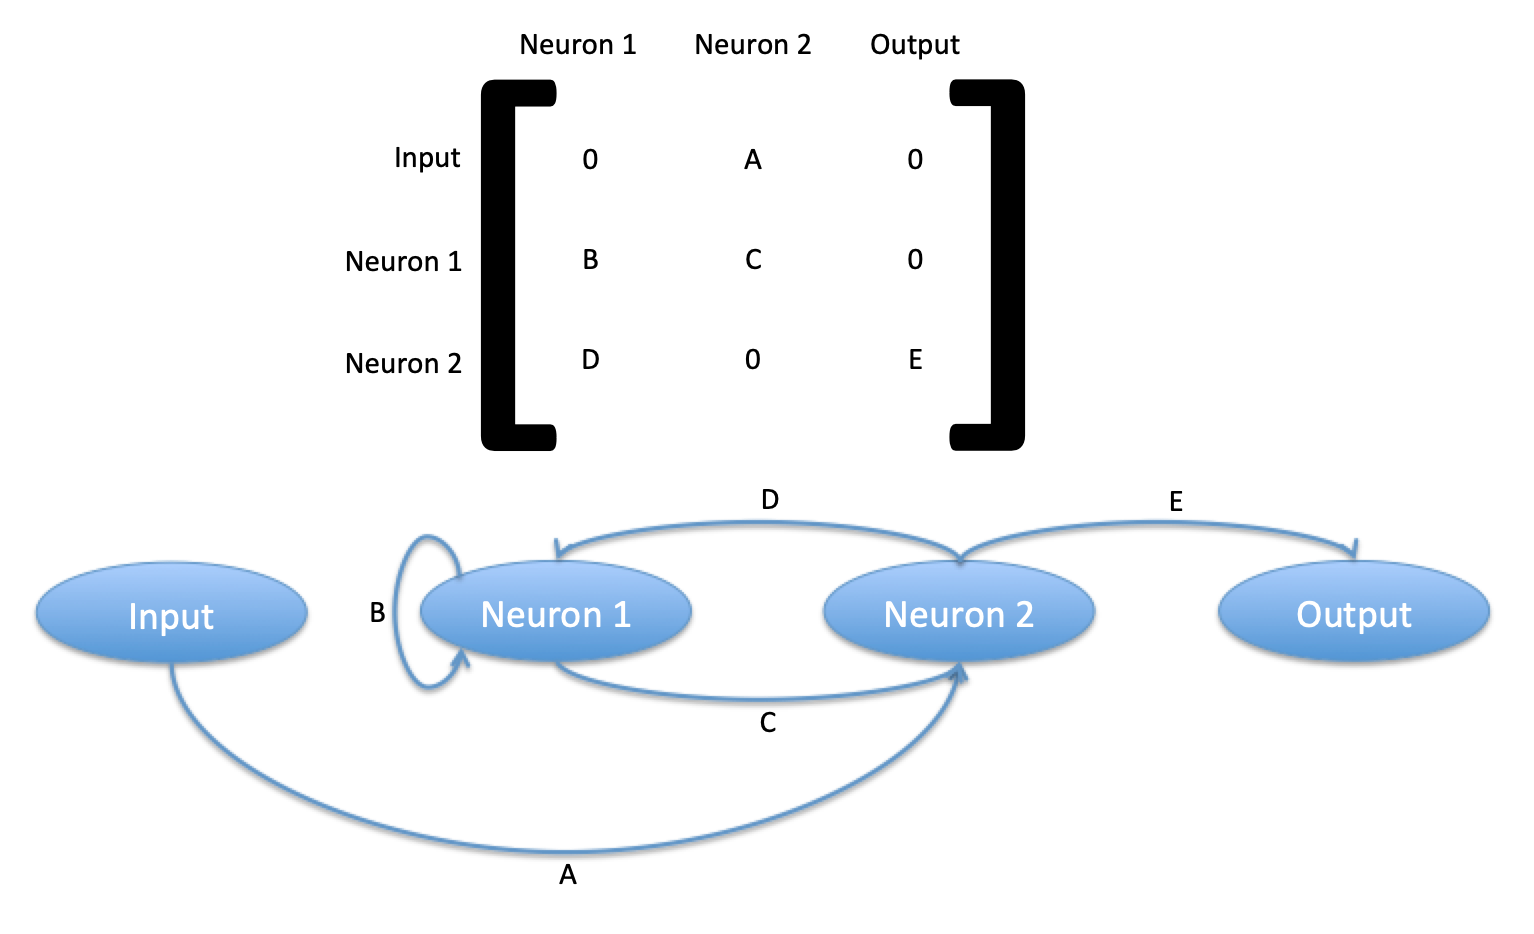
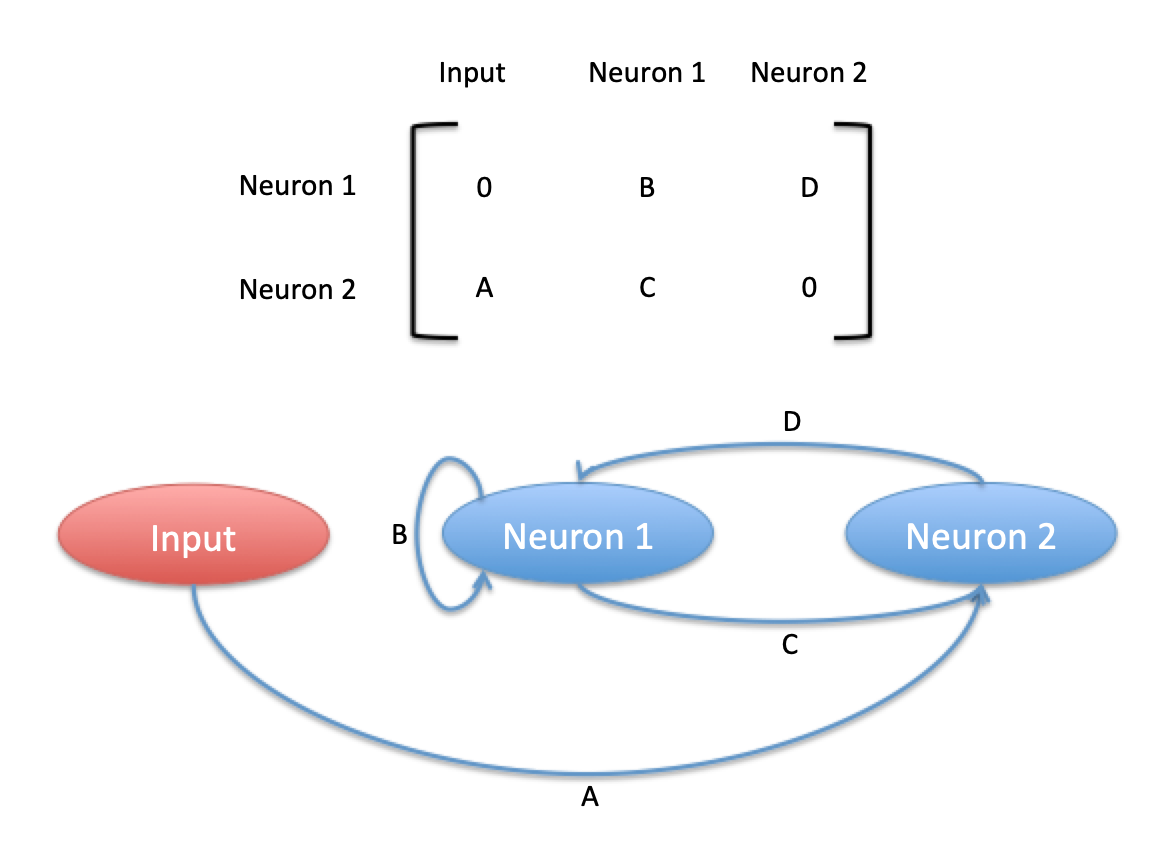
Redid pictures (transpose the network weights and time delays matrices

diff --git a/readme.md b/readme.md
@@ -1,8 +1,10 @@
 ## Network:
+A Network is a specific topology of connected Neuron objects. Connections between neurons can be weighted, and also can carry a time delay. 
+
+Once initialized, a Network's primary method is to take in a set of input signals and output a set of output signals. 
 
 ### Weights: 
-
-W is an (n+1)x(n+1) matrix, for n=# neurons
+W is an (n+1)x(n+1) matrix
 
 W_ij is the weight of the connection from neuron i to neuron j+1. "Neuron 0" here means the input. 
 
